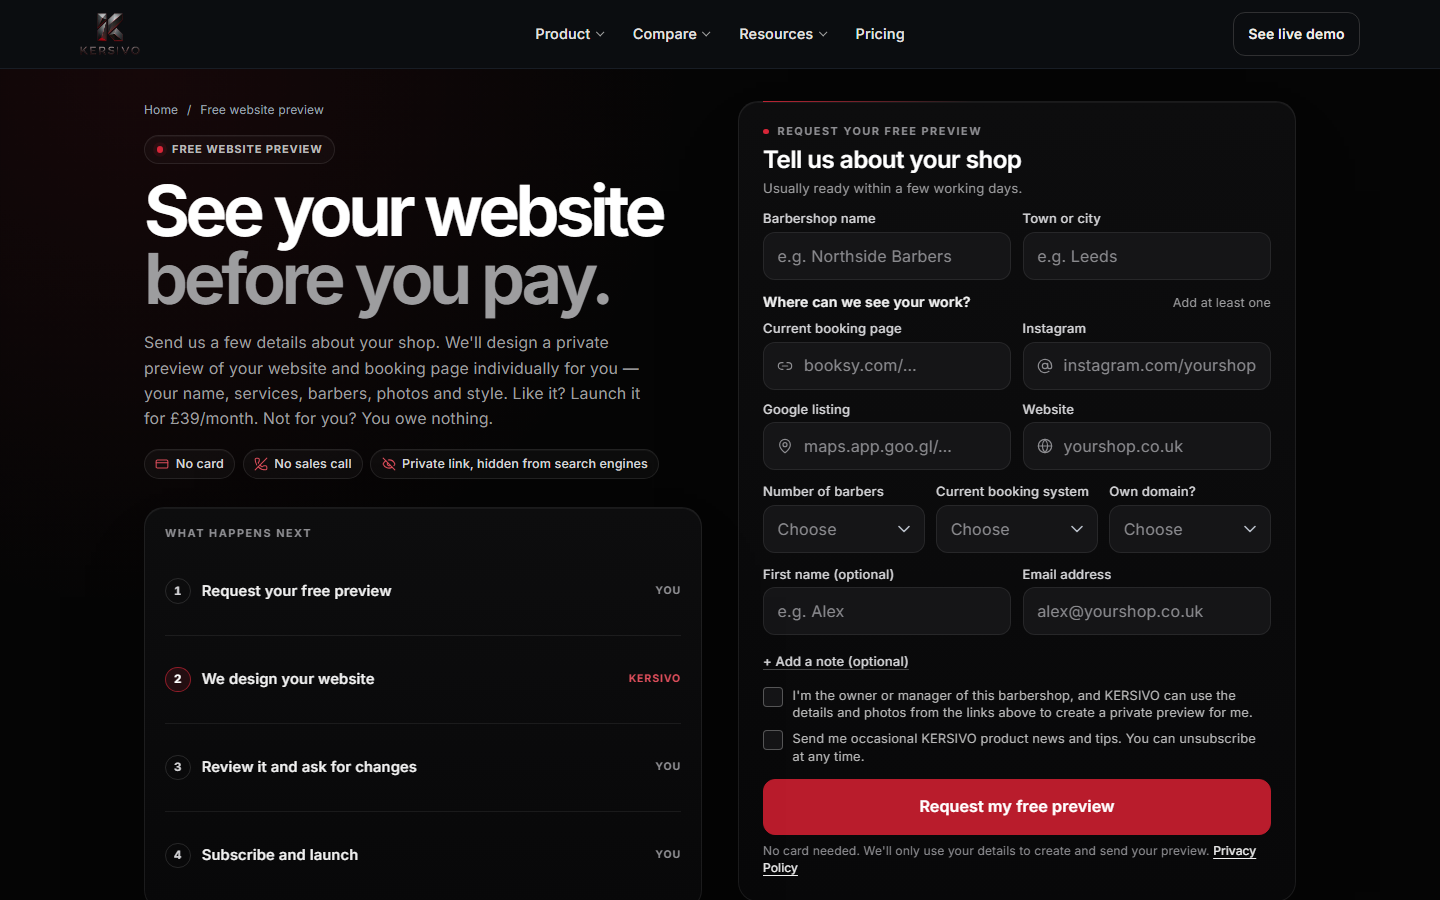
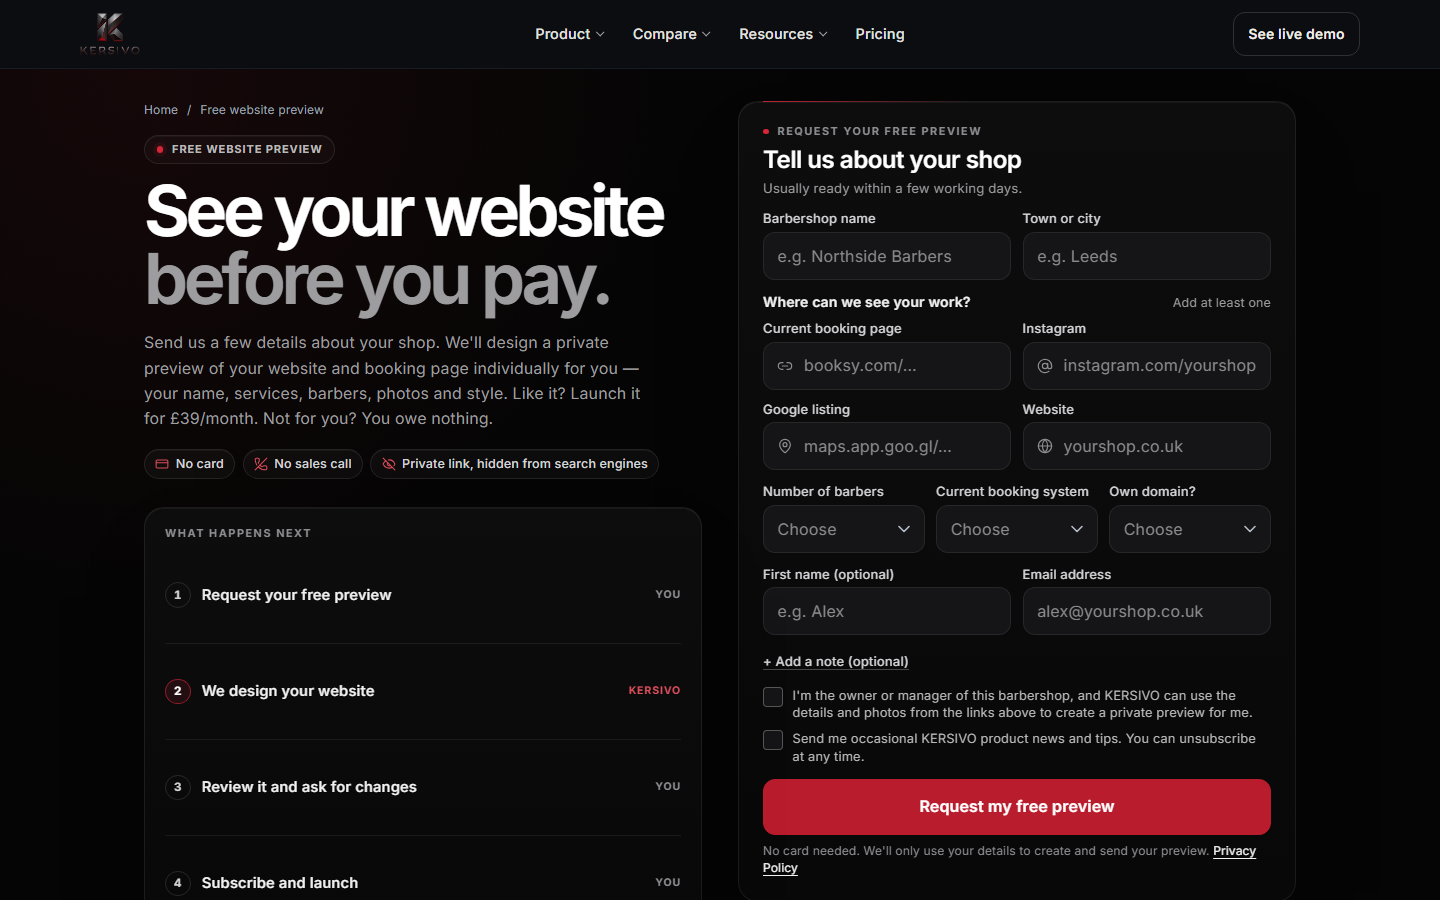
Give /free-preview sticky card more travel and clear focus of the navbar

diff --git a/src/styles/components/free-preview.css b/src/styles/components/free-preview.css
@@ -228,7 +228,7 @@
   .free-preview__steps {
     display: grid;
     flex: 1;
-    grid-auto-rows: minmax(5.5rem, 1fr);
+    grid-auto-rows: minmax(6rem, 1fr);
   }
 
   .free-preview__form-col {
@@ -575,6 +575,14 @@
 }
 
 /* ---------- Confirmation ---------- */
+
+/* Focus moves here and to invalid fields: keep them clear of the sticky navbar. */
+.free-preview-confirmation,
+.free-preview-form input,
+.free-preview-form select,
+.free-preview-form textarea {
+  scroll-margin-top: 6rem;
+}
 
 .free-preview-confirmation {
   margin-block: auto;
